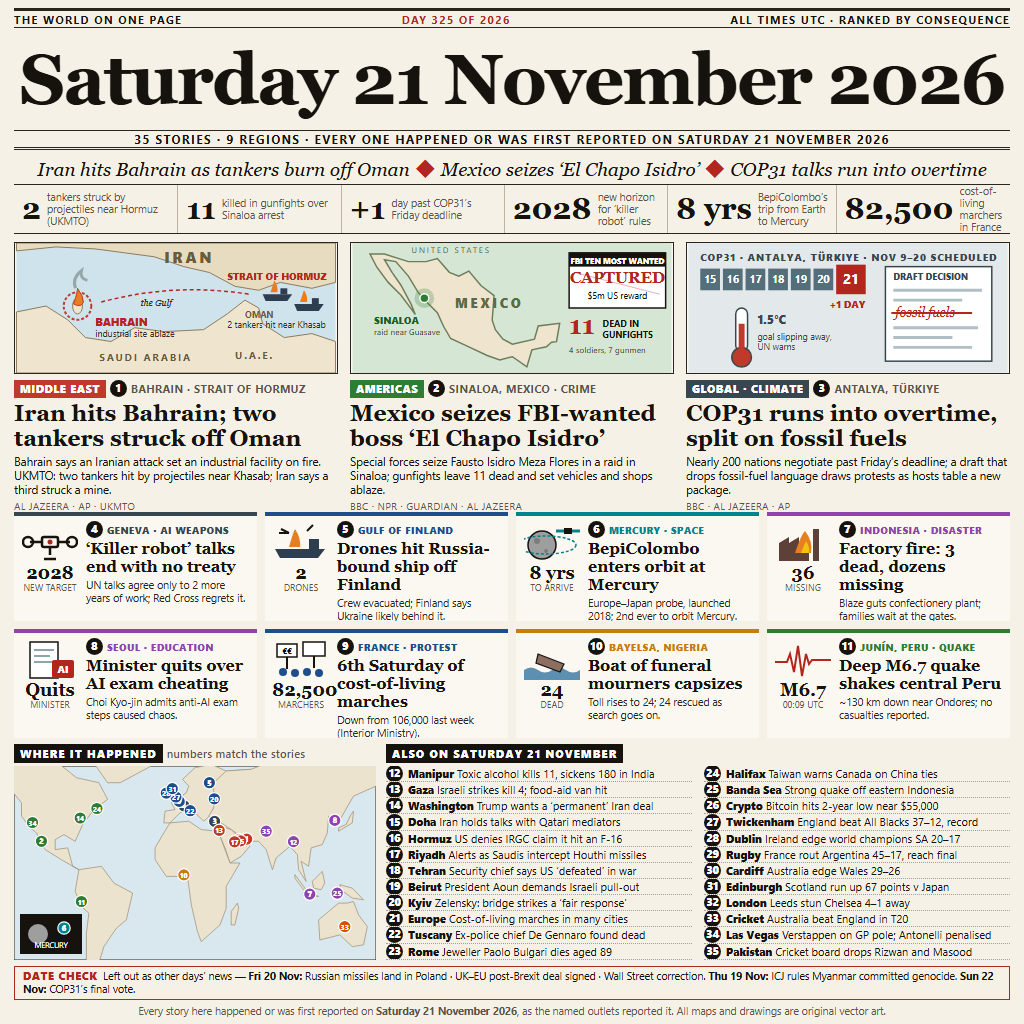
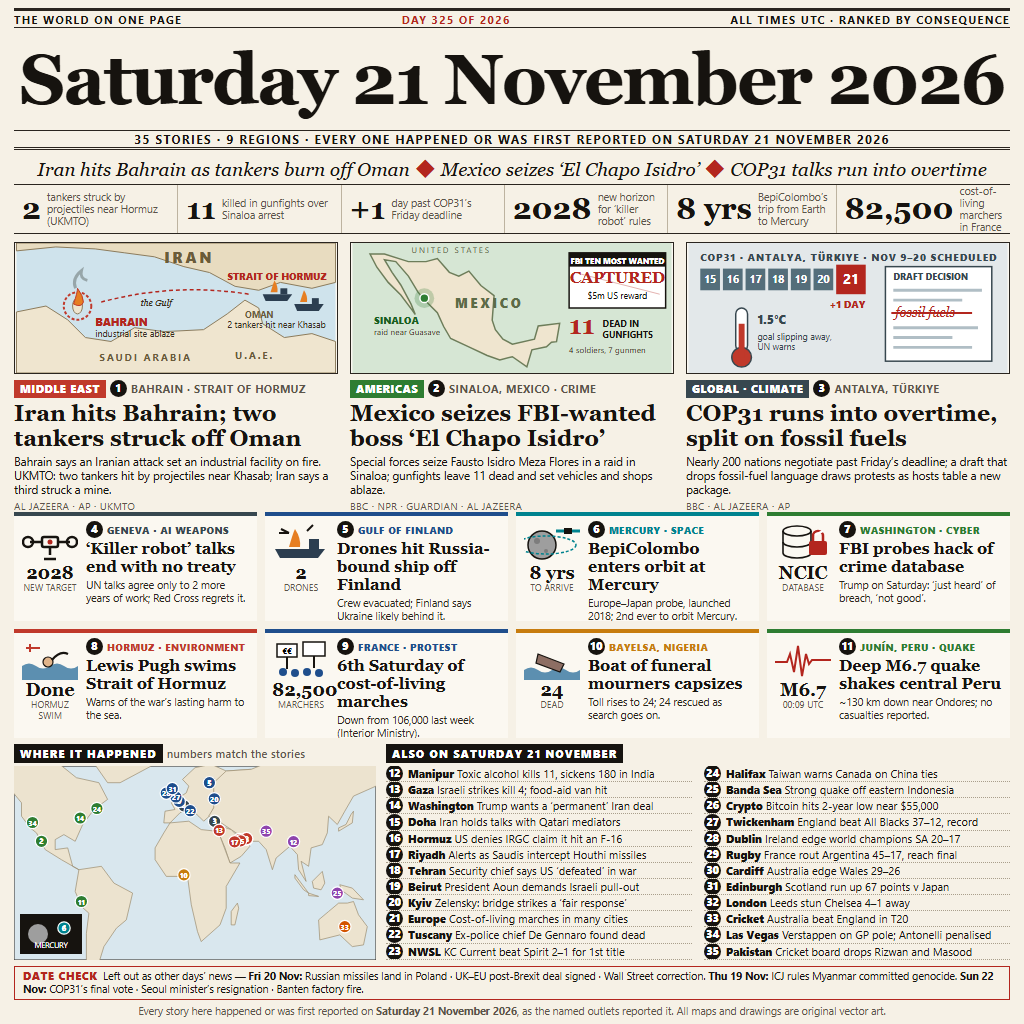
Swap two Sunday stories for verified Saturday ones (FBI hack, Pugh swim, NWSL final)

diff --git a/src/page.html b/src/page.html
@@ -220,19 +220,19 @@
     <h3>BepiColombo enters orbit at Mercury</h3>
     <p>Europe–Japan probe, launched 2018; 2nd ever to orbit Mercury.</p>
   </div>
-  <div class="card" style="border-color:var(--as)">
-    <div class="ic"><svg width="56" height="40" viewBox="0 0 56 40"><path d="M4,38 v-18 l10,-6 v6 l10,-6 v6 l10,-6 v24 z" fill="#5d4037"/><rect x="38" y="6" width="6" height="32" fill="#5d4037"/><path d="M20,30 q6,-18 10,-22 q8,10 6,22z" fill="#e67e22"/><path d="M26,30 q3,-8 5,-12 q4,6 3,12z" fill="#f1c40f"/></svg>
-      <div class="big">36</div><div class="bl">missing</div></div>
-    <div class="k" style="color:var(--as)"><span class="num">7</span>Indonesia · Disaster</div>
-    <h3>Factory fire: 3 dead, dozens missing</h3>
-    <p>Blaze guts confectionery plant; families wait at the gates.</p>
+  <div class="card" style="border-color:var(--am)">
+    <div class="ic"><svg width="56" height="40" viewBox="0 0 56 40"><g fill="none" stroke="#16130f" stroke-width="1.6"><ellipse cx="22" cy="8" rx="14" ry="5"/><path d="M8,8 v22 a14,5 0 0 0 28,0 v-22"/><path d="M8,19 a14,5 0 0 0 28,0"/></g><rect x="34" y="18" width="18" height="14" rx="2" fill="#b3261e"/><path d="M38,18 v-5 a5,5 0 0 1 10,0 v5" fill="none" stroke="#b3261e" stroke-width="2.5"/><path d="M40,12 l8,-4" stroke="#fff" stroke-width="2"/></svg>
+      <div class="big">NCIC</div><div class="bl">database</div></div>
+    <div class="k" style="color:var(--am)"><span class="num">7</span>Washington · Cyber</div>
+    <h3>FBI probes hack of crime database</h3>
+    <p>Trump on Saturday: ‘just heard’ of breach, ‘not good’.</p>
   </div>
-  <div class="card" style="border-color:var(--as)">
-    <div class="ic"><svg width="56" height="40" viewBox="0 0 56 40"><rect x="8" y="2" width="28" height="36" fill="#fff" stroke="#16130f" stroke-width="1.5"/><g stroke="#90a4ae" stroke-width="2"><path d="M12,10 h20 M12,16 h16 M12,22 h20"/></g><rect x="30" y="20" width="22" height="18" rx="2" fill="#b3261e"/><text x="41" y="33" font-size="10" font-weight="800" fill="#fff" text-anchor="middle" font-family="Segoe UI">AI</text></svg>
-      <div class="big">Quits</div><div class="bl">minister</div></div>
-    <div class="k" style="color:var(--as)"><span class="num">8</span>Seoul · Education</div>
-    <h3>Minister quits over AI exam cheating</h3>
-    <p>Choi Kyo-jin admits anti-AI exam steps caused chaos.</p>
+  <div class="card" style="border-color:var(--me)">
+    <div class="ic"><svg width="56" height="40" viewBox="0 0 56 40"><path d="M0,26 q7,-5 14,0 t14,0 t14,0 t14,0 v14 h-56z" fill="#5c8fb0"/><circle cx="26" cy="22" r="5" fill="#e0b48a" stroke="#16130f" stroke-width="1.2"/><path d="M30,20 q8,-10 16,-6" fill="none" stroke="#16130f" stroke-width="2.2"/><path d="M4,8 h14 M8,4 v8" stroke="#c0392b" stroke-width="2"/></svg>
+      <div class="big">Done</div><div class="bl">Hormuz swim</div></div>
+    <div class="k" style="color:var(--me)"><span class="num">8</span>Hormuz · Environment</div>
+    <h3>Lewis Pugh swims Strait of Hormuz</h3>
+    <p>Warns of the war’s lasting harm to the sea.</p>
   </div>
   <div class="card" style="border-color:var(--eu)">
     <div class="ic"><svg width="56" height="40" viewBox="0 0 56 40"><g fill="#fff" stroke="#16130f" stroke-width="1.5"><rect x="4" y="4" width="20" height="13"/><rect x="30" y="2" width="22" height="14"/></g><g stroke="#16130f" stroke-width="2"><path d="M14,17 v12 M41,16 v12"/></g><g fill="#1f4e8c"><circle cx="10" cy="32" r="4"/><circle cx="22" cy="33" r="4"/><circle cx="34" cy="32" r="4"/><circle cx="46" cy="33" r="4"/></g><text x="14" y="14" font-size="8" font-weight="800" text-anchor="middle" font-family="Segoe UI">€€</text></svg>
@@ -273,7 +273,7 @@
   <div class="li"><span class="num">20</span><span><b>Kyiv</b> Zelensky: bridge strikes a ‘fair response’</span></div>
   <div class="li"><span class="num">21</span><span><b>Europe</b> Cost-of-living marches in many cities</span></div>
   <div class="li"><span class="num">22</span><span><b>Tuscany</b> Ex-police chief De Gennaro found dead</span></div>
-  <div class="li"><span class="num">23</span><span><b>Rome</b> Jeweller Paolo Bulgari dies aged 89</span></div>
+  <div class="li"><span class="num">23</span><span><b>NWSL</b> KC Current beat Spirit 2–1 for 1st title</span></div>
   <div class="li"><span class="num">24</span><span><b>Halifax</b> Taiwan warns Canada on China ties</span></div>
   <div class="li"><span class="num">25</span><span><b>Banda Sea</b> Strong quake off eastern Indonesia</span></div>
   <div class="li"><span class="num">26</span><span><b>Crypto</b> Bitcoin hits 2-year low near $55,000</span></div>
@@ -288,7 +288,7 @@
   <div class="li"><span class="num">35</span><span><b>Pakistan</b> Cricket board drops Rizwan and Masood</span></div>
 </div>
 
-<div id="check" class="abs"><span class="rk">DATE CHECK</span> &nbsp;Left out as other days’ news — <b>Fri 20 Nov:</b> Russian missiles land in Poland · UK–EU post-Brexit deal signed · Wall Street correction. <b>Thu 19 Nov:</b> ICJ rules Myanmar committed genocide. <b>Sun 22 Nov:</b> COP31’s final vote.</div>
+<div id="check" class="abs"><span class="rk">DATE CHECK</span> &nbsp;Left out as other days’ news — <b>Fri 20 Nov:</b> Russian missiles land in Poland · UK–EU post-Brexit deal signed · Wall Street correction. <b>Thu 19 Nov:</b> ICJ rules Myanmar committed genocide. <b>Sun 22 Nov:</b> COP31’s final vote · Seoul minister’s resignation · Banten factory fire.</div>
 <div id="foot" class="abs">Every story here happened or was first reported on <b>Saturday 21 November 2026</b>, as the named outlets reported it. All maps and drawings are original vector art.</div>
 
 <script>
@@ -312,7 +312,7 @@ const land = [
 // story pins: [number, lon, lat, colour]
 const pins = [
   [1,50.5,26.0,'#c0392b'],[1,56.4,26.3,'#c0392b'],[2,-108.0,25.0,'#2e7d32'],[3,30.7,36.9,'#37474f'],[4,6.1,46.2,'#37474f'],
-  [5,26.5,60.0,'#1f4e8c'],[7,107.0,-6.6,'#8e44ad'],[8,127.0,37.5,'#8e44ad'],[9,2.35,48.85,'#1f4e8c'],[10,6.1,4.9,'#c77c0e'],
+  [5,26.5,60.0,'#1f4e8c'],[7,-77.0,38.9,'#2e7d32'],[8,56.3,26.6,'#c0392b'],[9,2.35,48.85,'#1f4e8c'],[10,6.1,4.9,'#c77c0e'],
   [11,-76.0,-11.0,'#2e7d32'],[12,93.9,24.8,'#8e44ad'],[13,34.4,31.5,'#c0392b'],[14,-77.0,38.9,'#2e7d32'],[15,51.5,25.3,'#c0392b'],[17,46.7,24.7,'#c0392b'],
   [20,30.5,50.4,'#1f4e8c'],[22,11.2,43.3,'#1f4e8c'],[24,-63.6,44.6,'#2e7d32'],[25,129.0,-6.0,'#8e44ad'],[27,-0.3,51.45,'#1f4e8c'],[28,-8,53.8,'#1f4e8c'],
   [31,-3.2,56.5,'#1f4e8c'],[33,135,-26,'#d35400'],[34,-115.2,36.2,'#2e7d32'],[35,72,31,'#8e44ad']
